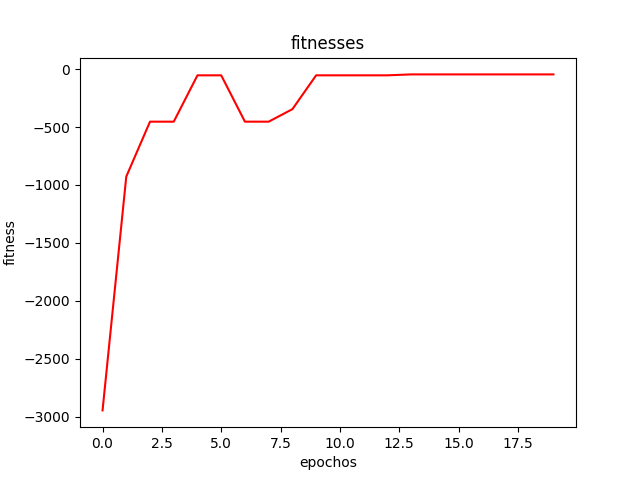
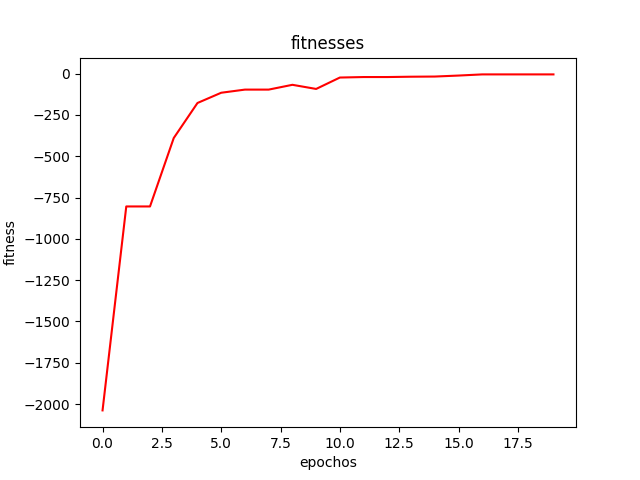
readme de ejercicio1 parte2

diff --git a/codigo/ejercicio1/probandoEjercicio1.py b/codigo/ejercicio1/probandoEjercicio1.py
@@ -5,25 +5,28 @@ from fitnessFunctions import fit1
 from fitnessFunctions import fit2
 from fitnessFunctions import fit3
 
+F2=[AddNode,SubNode,MultNode,MaxNode]
+T2=[25,7,8,100,4,2]
+
 if sys.argv[1]=="singraf":
     if sys.argv[2]=="conrep":
-        print("busqueda con repeticion")
-        F2=[AddNode,SubNode,MultNode,MaxNode]
+        if sys.argv[3]=="sincast":
+            print("busqueda con repeticion sin castigo")
+            engineEncontrarNumero1(fit1,int(sys.argv[4]),20,100,10,10,F2,T2)
+        elif sys.argv[3]=="concast":
+            print("busqueda con repeticion con castigo")
+            engineEncontrarNumero1(fit2,int(sys.argv[4]),20,100,10,10,F2,T2)
+    elif sys.argv[2]=="sinrep":
+        print("busqueda sin repeticion")
+        F3=[AddNode,SubNode,MultNode]
         T2=[25,7,8,100,4,2]
-        engineEncontrarNumero1(fit1,int(sys.argv[3]),20,100,10,10,F2,T2)
-        #print("#####################################################################")
-        #print("busqueda fit2")
-        #engineEncontrarNumero1(fit2,65346,20,100,10,10,F2,T2)
-
-        #print("#####################################################################")
-        #print("busqueda fit3")
-        #F3=[AddNode,SubNode,MultNode]
-        #T2=[25,7,8,100,4,2]
-
-        #engineEncontrarNumero1(fit3,65346,40,200,10,10,F3,T2)
+        engineEncontrarNumero1(fit3,int(sys.argv[3]),40,200,10,10,F3,T2)
 
 elif sys.argv[1]=="congraf":
-        print("busqueda con repeticion")
-        F2=[AddNode,SubNode,MultNode,MaxNode]
-        T2=[25,7,8,100,4,2]
-        engineEncontrarNumeroConGrafico(fit1,int(sys.argv[3]),20,100,10,10,F2,T2,"fitnessEvolConrep")
+    if sys.argv[2]=="conrep":
+        if sys.argv[3]=="sincast":
+            print("busqueda con graficos con repeticion sin castigo")
+            engineEncontrarNumeroConGrafico(fit1,int(sys.argv[4]),20,100,10,10,F2,T2,"fitnessEvolConrep")
+        elif sys.argv[3]=="concast":
+            print("busqueda con graficos con repeticion con castigo")
+            engineEncontrarNumeroConGrafico(fit2,int(sys.argv[4]),20,100,10,10,F2,T2,"fitnessEvolConrepConcast")

diff --git a/README.md b/README.md
@@ -11,7 +11,7 @@ para correr el codigo sin graficos:
 
     debes estar en la carpeta ejercicio1 y correr el siguiente codigo en la terminal
     
-            python3 probandoEjercicio1.py singraf conrep 65346
+            python3 probandoEjercicio1.py singraf conrep sincast  65346
 
     con esto buscaras el numero 65346 con repeticion de terminales (puedes buscar cualquier numero)
     en la terminal se mostrara el arbol encontrado, el fitness (mientras mas cercano a 0 mejor) y la evaluacion de el arbol.
@@ -20,7 +20,7 @@ para correr el codigo con graficos:
     debes estar en el ambiente virtual e instalar los requirements
     luego debes dirigirte a la carpeta ejercicio1 y correr en la terminal
 
-            python3 probandoEjercicio1.py congraf conrep 65346
+            python3 probandoEjercicio1.py congraf conrep sincast  65346
 
     con esto buscaras el numero 65346 con repeticion de terminales (puedes buscar cualquier numero)
     en la terminal se mostrara el arbol encontrado, el fitness (mientras mas cercano a 0 mejor) y la evaluacion de el arbol.
@@ -37,9 +37,38 @@ para este grafico se uso la funcion fit1, que puede encontrarse en el archivo fi
 (el grafico es el fitness de los maximos de cada generacion y el maximo que pueden alcanzar es 0).
 
 
+### con repeticion y castigo por largo de arbol
+
+el siguiente experimento es generar un arbol con un numero indeterminado de terminales (se pueden repetir) pero se castigara si el arbol es muy largo..
+
+para correr el codigo sin graficos:
+
+    debes estar en la carpeta ejercicio1 y correr el siguiente codigo en la terminal
+    
+            python3 probandoEjercicio1.py singraf conrep concast  65346
+
+    con esto buscaras el numero 65346 con repeticion de terminales (puedes buscar cualquier numero)
+    en la terminal se mostrara el arbol encontrado, el fitness (mientras mas cercano a 0 mejor) y la evaluacion de el arbol.
+
+para correr el codigo con graficos:
+    debes estar en el ambiente virtual e instalar los requirements
+    luego debes dirigirte a la carpeta ejercicio1 y correr en la terminal
+
+            python3 probandoEjercicio1.py congraf conrep concast  65346
+
+    con esto buscaras el numero 65346 con repeticion de terminales (puedes buscar cualquier numero) pero ademas castigaras a los arboles muy largos
+    en la terminal se mostrara el arbol encontrado, el fitness (mientras mas cercano a 0 mejor) y la evaluacion de el arbol.
+    y se creare una imagen llamada fitnessEvolConrepConcast.png en la carpeta ejercicio1.
+
+analisis:
+Reference-style: 
+![alt text][porcentaje]
+
+[porcentaje]: codigo/ejercicio1/fitnessEvolConrepConcast.png
 
 
-
+para este grafico se uso la funcion fit2, que puede encontrarse en el archivo fitnessFunctions en la carpeta ejercicio1. es una funcion bastante simple que lo que hace es calcular que tan lejos esta la evaluacion de el arbol con el numero buscado, pero ademas se le resta el largo de el arbol/100 (el 100 aparece empiricamente, ya que los tamanos de los arboles pueden ser muy grandes y matan la funcion fitness).
+(esta vez el maximo puede no ser 0 pues al restar el largo de el arbol, nos alejamos de el 0). 
 
 
 
